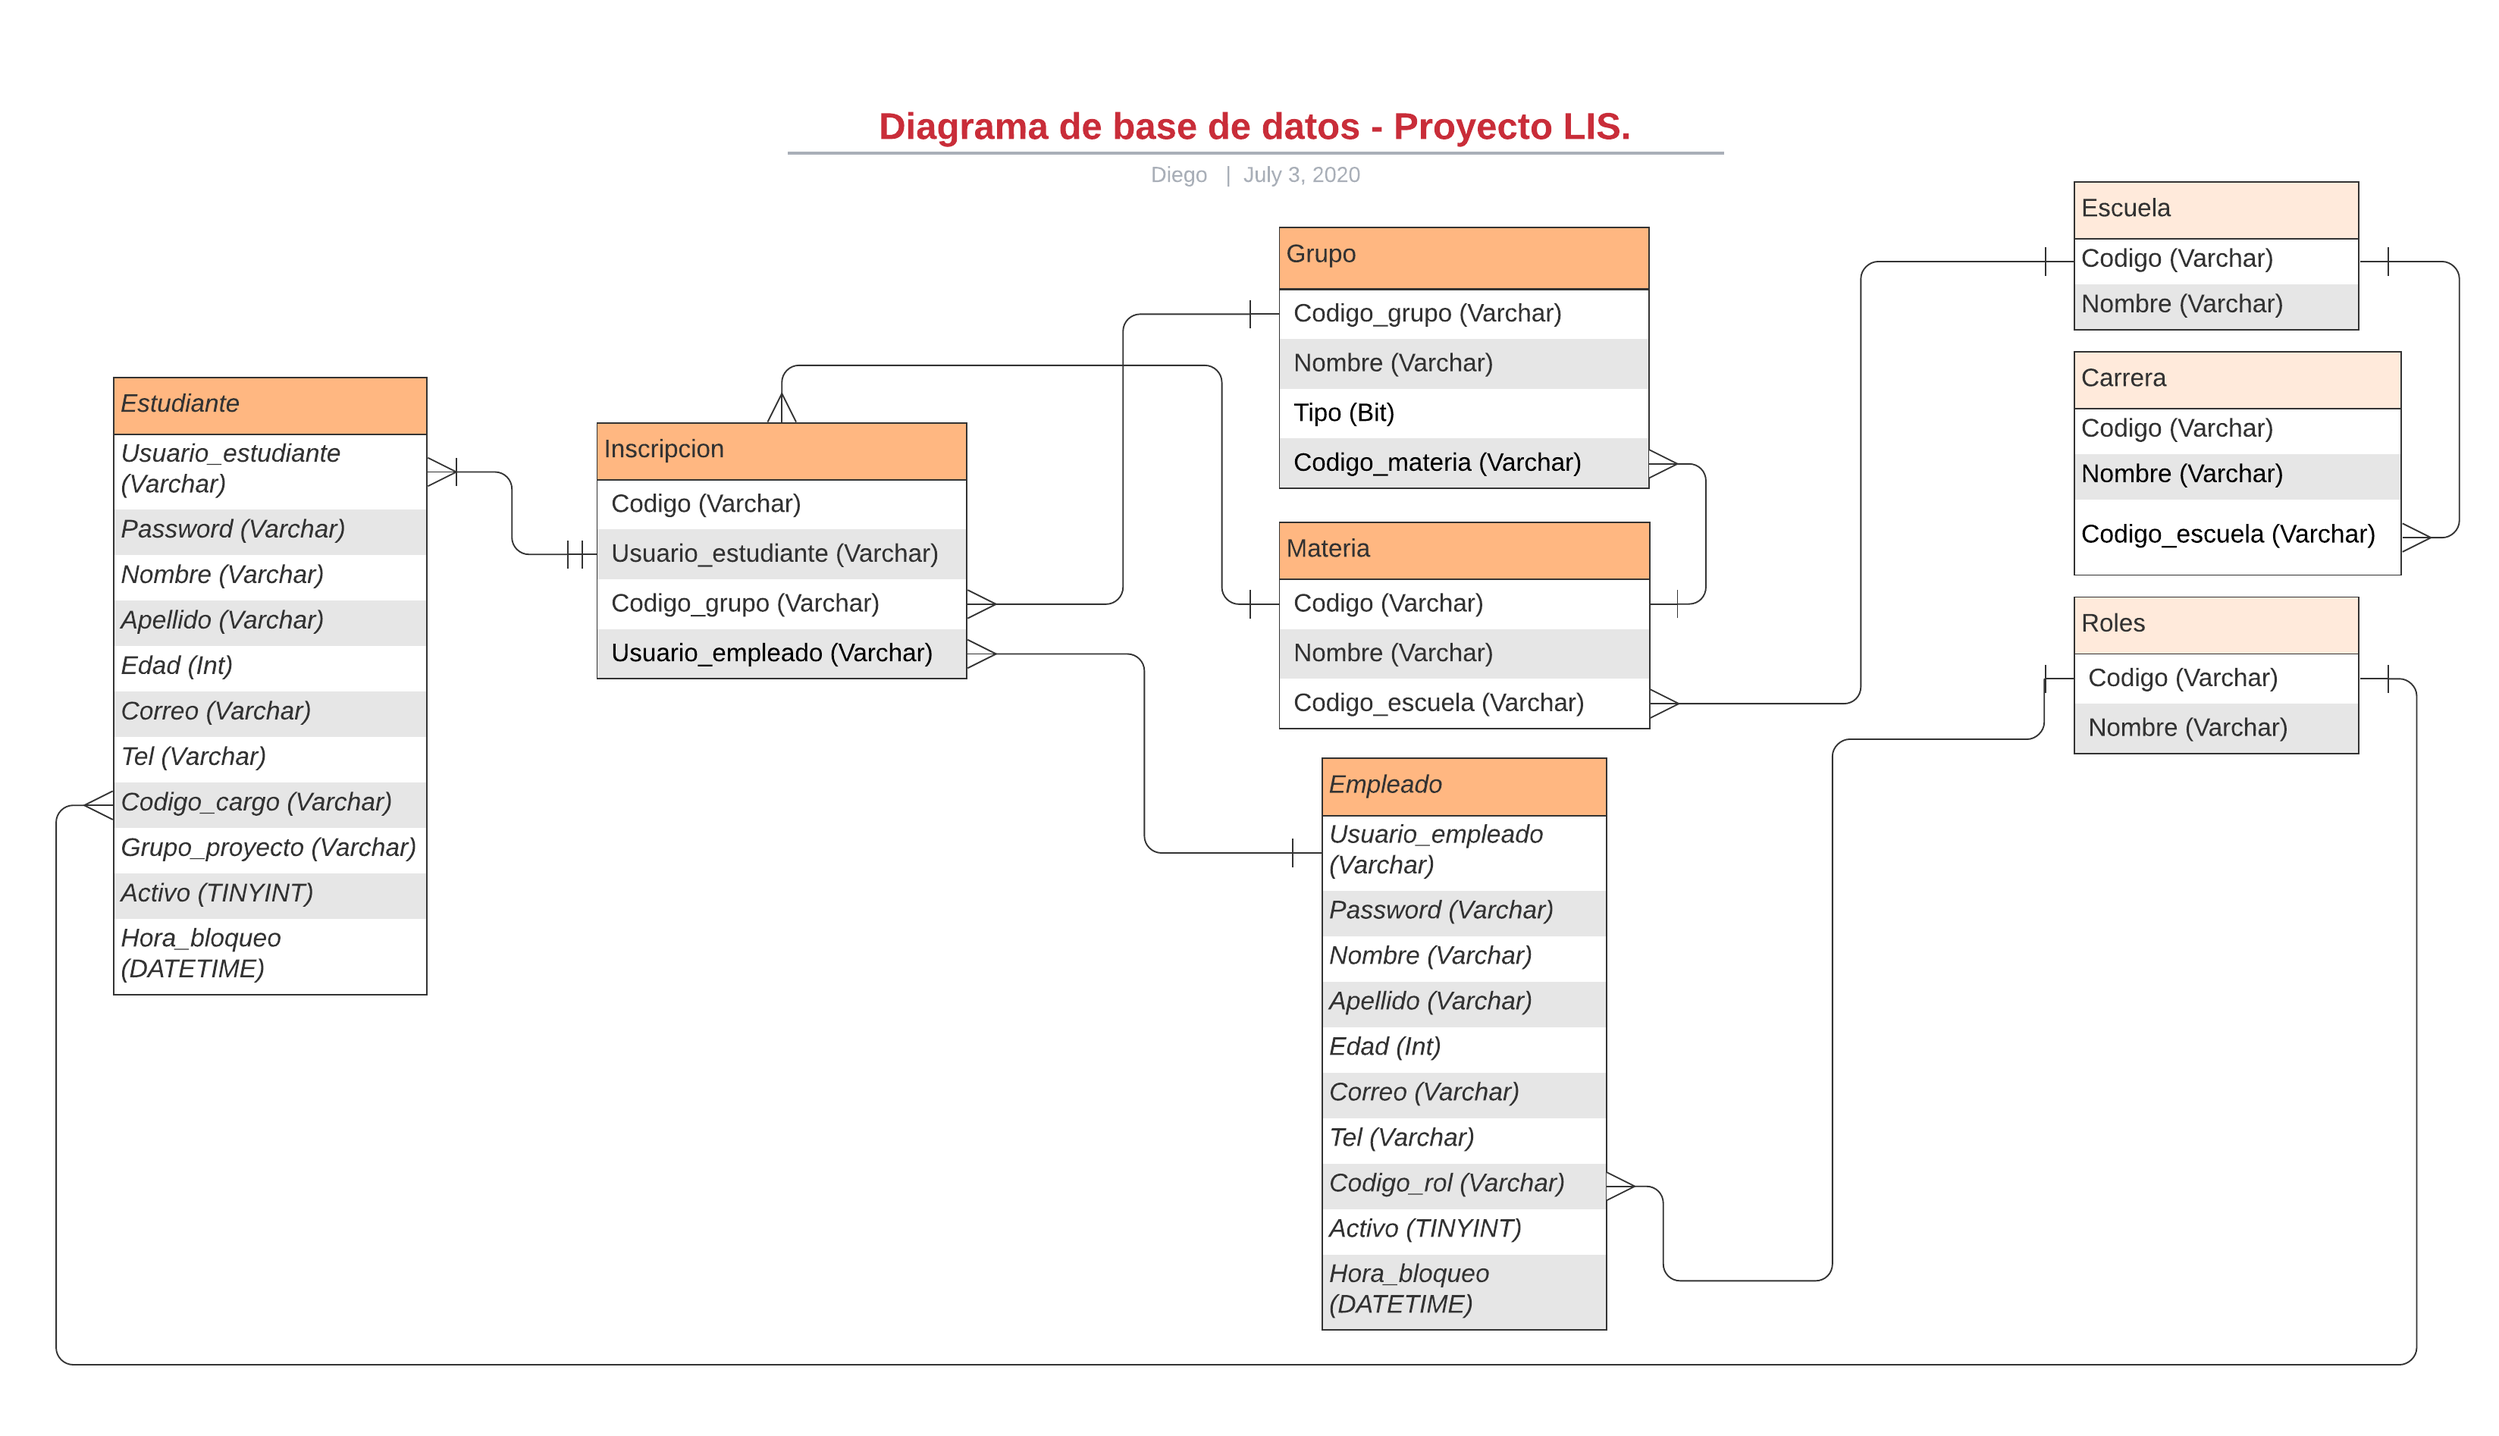
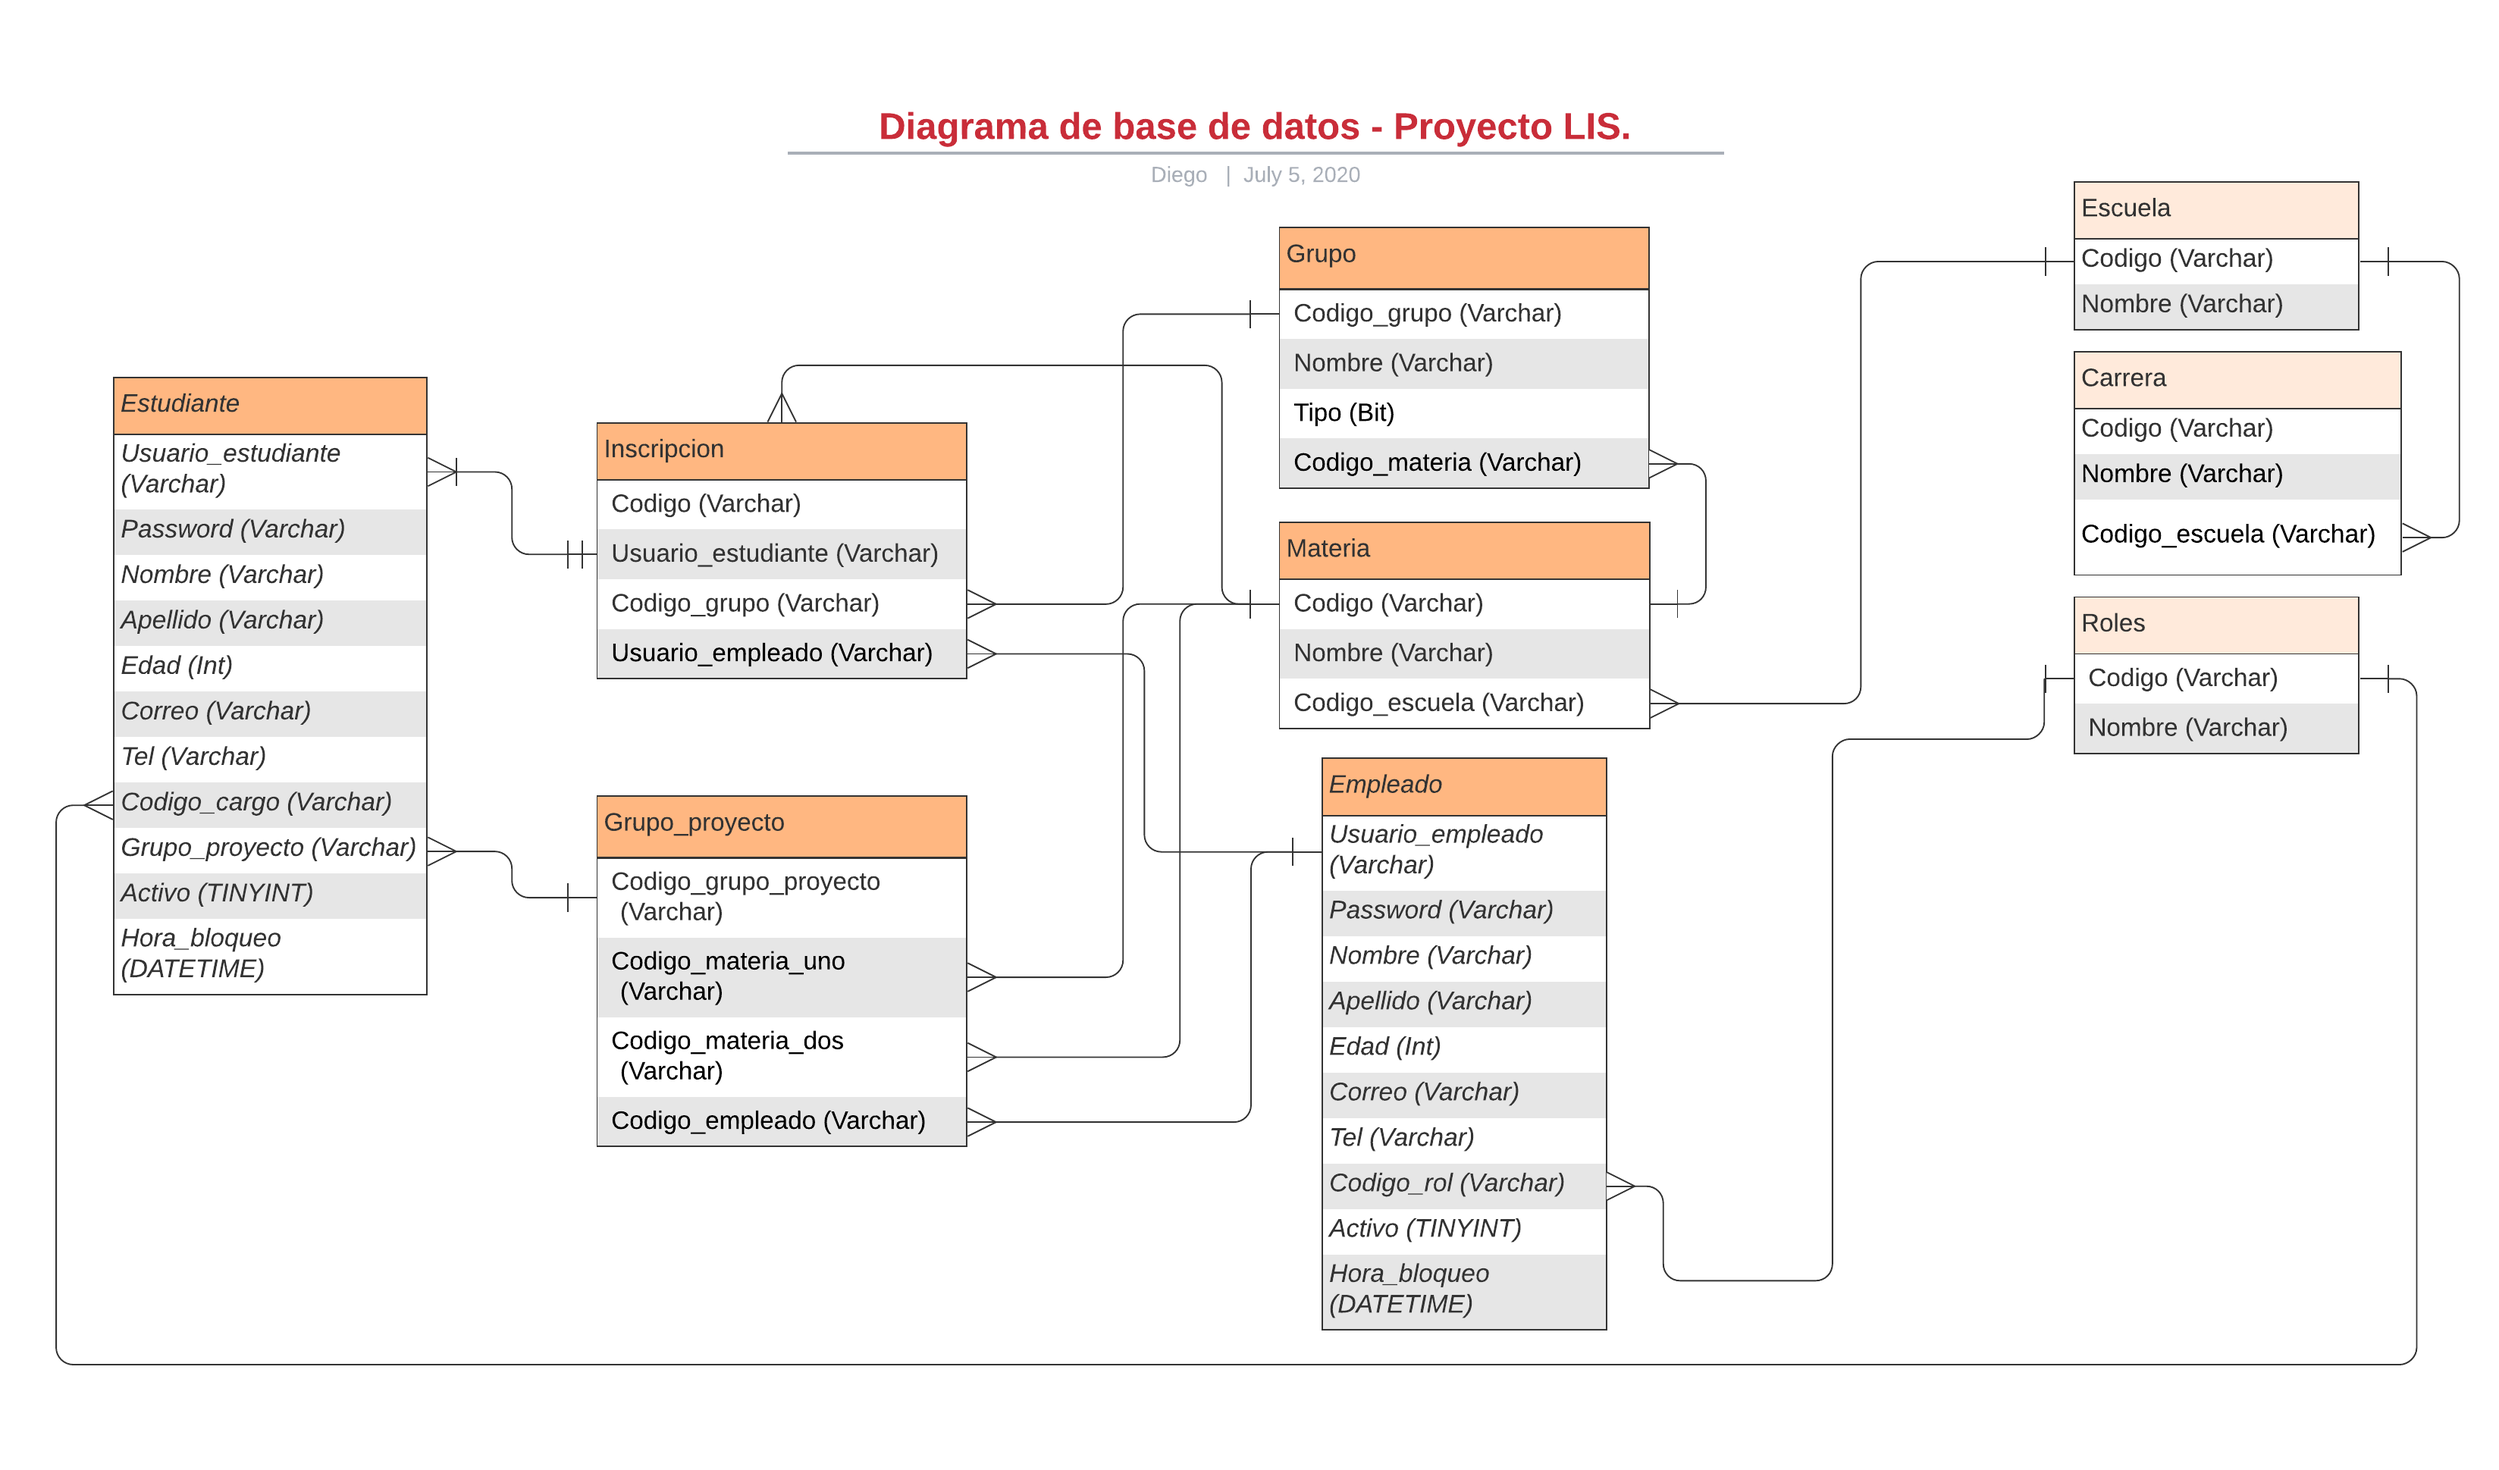
asignación de grupos en la bd

diff --git a/queries/create_groups.php b/queries/create_groups.php
@@ -25,6 +25,7 @@ function create_groups($total_students, $amount){
     $students_out = $total_students - ($total_groups*$amount);
     return array($total_groups, $students_out);
 }
+//Función que genera indices aleatorios no repetidos
 function get_idx($total,$added){
     $id = rand(0, $total-1);
     if(in_array($id, $added)){
@@ -33,49 +34,92 @@ function get_idx($total,$added){
         return $id;
     }
 }
-if(isset($_GET['create_groups'])){
+//Función para formar el nombre del grupo
+function get_name($subject1, $subject2, $connection){
+    $stmt = "CALL count_groups('$subject1', '$subject2')";
+    $result = mysqli_query($connection, $stmt);
+    if(!$result){
+        echo "Error en la ejecución.";
+        return;
+    }
+    $number = mysqli_fetch_array($result);
+    $name = substr($subject1, 0, 3) . substr($subject2, 0, 3);
+    $name = $name . ($number[0]+1);
+    mysqli_next_result($connection);
+    return $name;
+}
+function insert_group($connection, $group_name, $employee, $sbjt1, $sbjt2){
+    $stmt = "CALL create_groups('$group_name', '$sbjt1', '$sbjt2', '$employee')";
+    $result = mysqli_query($connection, $stmt);
+    if($result){
+        mysqli_next_result($connection);
+        echo "Grupo creado";    
+    }else{
+        echo mysqli_error($connection). $stmt;
+    }
+}
+//Función que asigna los estudiantes a cada grupo
+function add_student($connection, $student, $group){
+    $stmt = "CALL assign_group('$student', '$group')";
+    $result = mysqli_query($connection, $stmt);
+    if($result){
+        mysqli_next_result($connection);
+        echo "Grupo asignado";    
+    }else{
+        echo mysqli_error($connection). $stmt;
+    }
+}
+//Si le han hecho click al botón y la cantidad no es cero
+if(isset($_GET['create_groups']) && isset($_GET["cupos"])){
     $s1 = $_GET['materia1'];
     $s2 = $_GET['materia2'];
     $n = $_GET["cupos"];
-    
+    //Listas de alumnos inscritos
     $students_s1 = count_students($con, $s1);
     $students_s2 = count_students($con, $s2);    
+    //Cantidad de alumnos en cada materia
     $students_m1 = count($students_s1);
     $students_m2 = count($students_s2);
-
-
+    //Array de estudiantes que quedan sin grupo
+    $out = [];
+    //Hacer los arrays del mismo tamaño
     if ($students_m1 > $students_m2) {
         $substraction = $students_m1 - $students_m2;
         for ($i=0; $i < $substraction; $i++) { 
-            array_pop($students_s1);
+            array_push($out,array_pop($students_s1));
         }
     }else{
         $substraction = $students_m2 - $students_m1;
         for ($i=0; $i < $substraction; $i++) { 
-            array_pop($students_s2);
+            array_push($out,array_pop($students_s2));
         }
     }
-    
     echo nl2br("\r\n");
+    //Combinar ambos arrays en uno solo
     $all_students = array_merge($students_s1, $students_s2);
-    
+    //Eliminar carnets repetidos
+    $all_students = array_unique($all_students);
     $calculations = create_groups(count($all_students), $n);
     
     $groups = $calculations[0];
     $students_left_out = $calculations[1];
-    shuffle($students_s1);
-    
+
+    //Crear los grupos, primer for para la cantidad de grupos
     $added = [];
-    for ($i=0; $i < $groups; $i++) { 
+
+    for ($i=0; $i < $groups; $i++) {
         echo ("Grupo ".($i+1).": ");
+        $name = get_name($s1, $s2, $con);
+        insert_group($con, $name, "LF155643", $s1, $s2);
+        //Segundo for para los cupos de cada grupo
         for ($j=0; $j < $n; $j++) { 
             $idx = get_idx(count($all_students), $added);
+            echo $all_students[$idx];
             array_push($added, $idx);
-            echo $all_students[$idx]." ";
+            add_student($con, $all_students[$idx], $name);
         }
         echo nl2br("\r\n");
     }
-    
 }
 
 ?>
